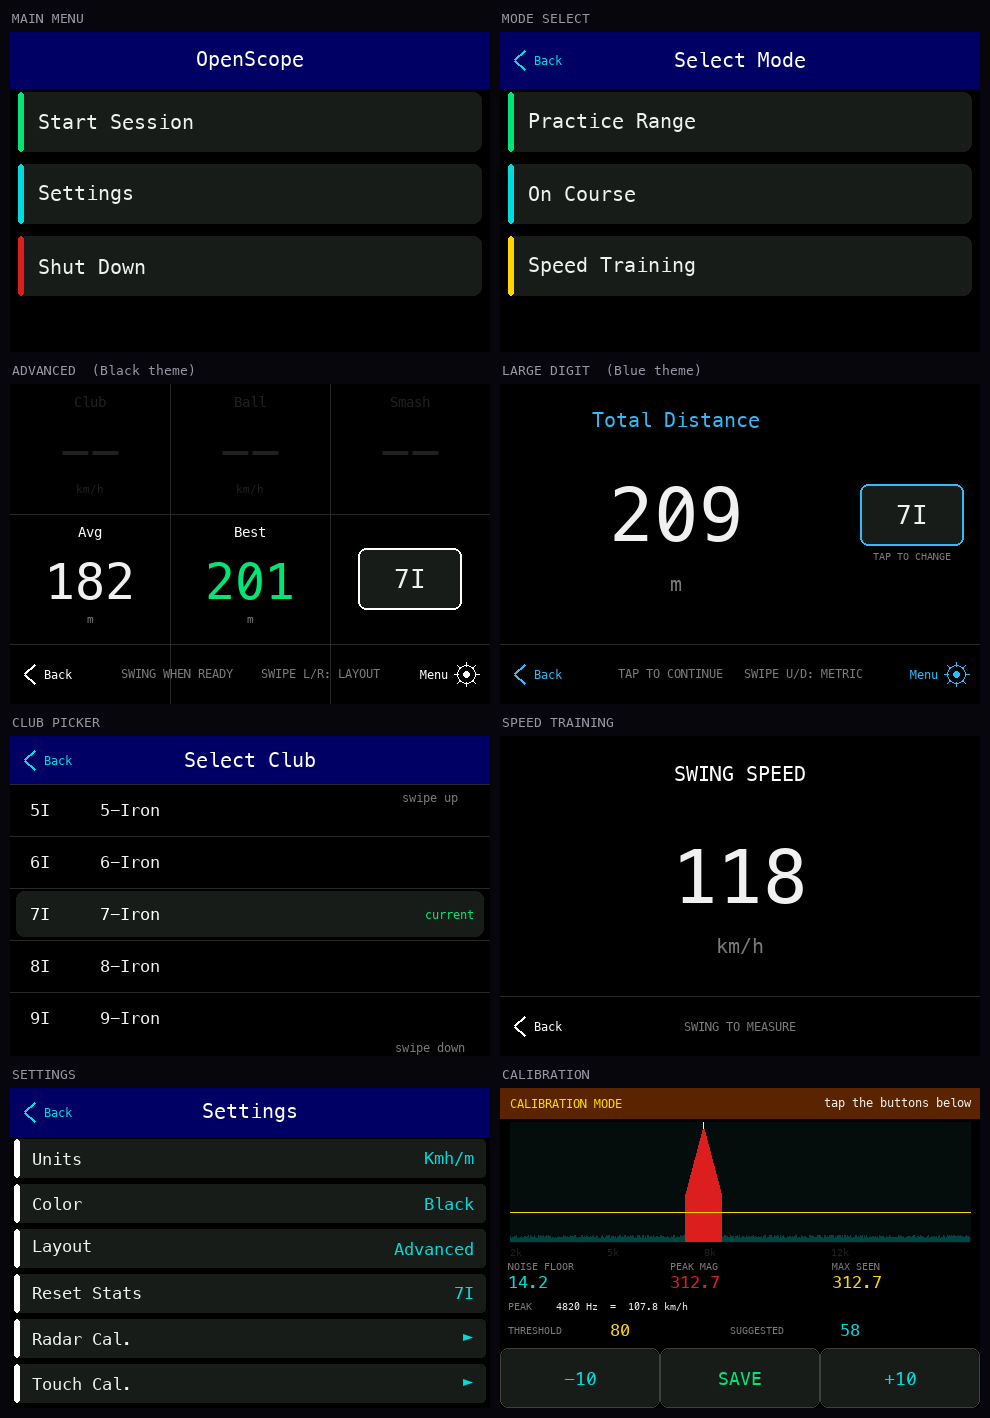
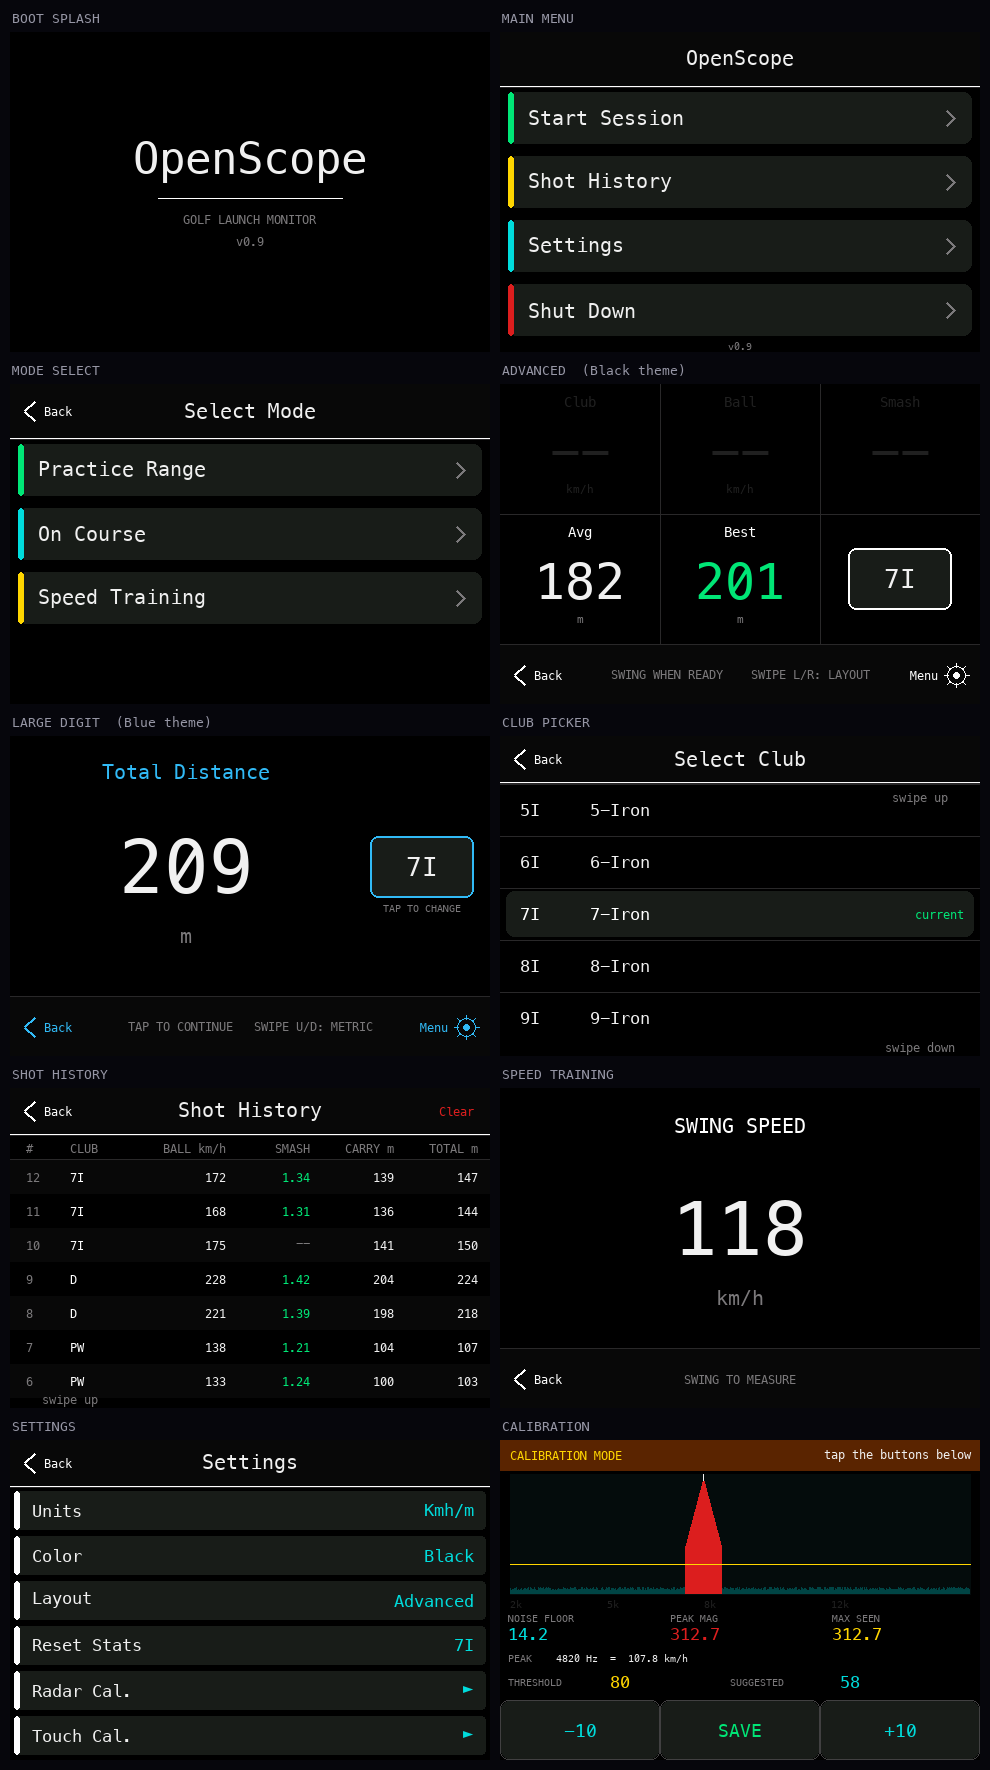
Regenerate README UI mockup for the v0.9 polish pass
Updates tools/generate_mockup.py to mirror the new display code: shared
dark-card headers with accent underline, four-row main menu with
chevrons and version footer, dock-styled bottom bars, plus new Boot
Splash and Shot History (zebra table) panels. README controls table and
mockup alt text updated to match.

diff --git a/tools/generate_mockup.py b/tools/generate_mockup.py
@@ -7,8 +7,9 @@ in sync with the firmware automatically. The UI is fully touch-driven (LM1
 style): the only physical control is Power.
 
 Screens rendered (mirrors display.cpp):
-    Main Menu · Mode Select · Advanced layout · Large-Digit layout ·
-    Club Picker · Speed Training · Settings · Calibration
+    Boot Splash · Main Menu · Mode Select · Advanced layout · Large-Digit
+    layout · Club Picker · Shot History · Speed Training · Settings ·
+    Calibration
 
 Usage (from repo root):
     python tools/generate_mockup.py
@@ -69,6 +70,14 @@ PICK_HDR_H = cfg.get("PICK_HDR_H", 48)
 PICK_ROW_H = cfg.get("PICK_ROW_H", 52)
 PICK_ROWS  = (SCR_H - PICK_HDR_H) // PICK_ROW_H
 
+HIST_HDR_H = cfg.get("HIST_HDR_H", 48)
+HIST_COL_H = cfg.get("HIST_COL_H", 24)
+HIST_ROW_H = cfg.get("HIST_ROW_H", 34)
+HIST_ROWS  = (SCR_H - HIST_HDR_H - HIST_COL_H) // HIST_ROW_H
+
+FW_VERSION = (re.search(r'#define\s+FW_VERSION\s+"([^"]+)"',
+                        open(ROOT / "src" / "config.h").read()) or [None, "v0.9"])[1]
+
 # ─── Colour helpers ───────────────────────────────────────────────────────────
 
 def rgb565(c):
@@ -93,6 +102,7 @@ DIM       = rgb565(cfg["COL_DIM"])
 CAL_HDR   = rgb565(cfg["COL_CAL_HDR"])
 BTN_BG    = rgb565(cfg.get("COL_BTN_BG",  0x18E3))
 BTN_BRD   = rgb565(cfg.get("COL_BTN_BRD", 0x4208))
+TILE_BG   = rgb565(cfg.get("COL_TILE_BG", 0x0841))
 
 # Theme label colours (Black theme = white labels, Blue theme = cyan labels)
 LABEL_BLACK = rgb565(cfg.get("COL_LABEL_BLACK", 0xFFFF))
@@ -198,7 +208,9 @@ def draw_club_pill(draw, x, y, w, h, abbr, label_col, tap_hint=False):
         tc(draw, "TAP TO CHANGE", cx, y + h + 4, F_SMALL, UNIT_C)
 
 def session_nav(draw, hint, label_col):
-    by = BAR_Y + BAR_H // 2
+    by = BAR_Y + BAR_H // 2 + 1
+    # Filled "dock" strip, matching draw_session_nav in display.cpp.
+    draw.rectangle([0, BAR_Y + 1, SCR_W, SCR_H], fill=TILE_BG)
     draw.line([(0, BAR_Y), (SCR_W, BAR_Y)], fill=DIV)
     chevron(draw, 14, by, label_col)
     ml(draw, "Back", 34, by, F_HDR, label_col)
@@ -206,19 +218,42 @@ def session_nav(draw, hint, label_col):
     gear(draw, SCR_W - 24, by, label_col)
     mr(draw, "Menu", SCR_W - 42, by, F_HDR, label_col)
 
-def screen_header(draw, title, label_col, back=True):
-    draw.rectangle([0, 0, SCR_W, MENU_HDR_H], fill=NAVY)
+def screen_header(draw, title, label_col, back=True, h=None,
+                  right=None, right_col=CYAN):
+    """Dark card strip with a themed accent underline (display.cpp style)."""
+    if h is None: h = MENU_HDR_H
+    draw.rectangle([0, 0, SCR_W, h - 2], fill=TILE_BG)
+    draw.line([(0, h - 2), (SCR_W, h - 2)], fill=label_col)
+    draw.line([(0, h - 1), (SCR_W, h - 1)], fill=DIV)
+    cy = (h - 2) // 2
     if back:
-        chevron(draw, 14, MENU_HDR_H // 2, CYAN)
-        ml(draw, "Back", 34, MENU_HDR_H // 2, F_HDR, CYAN)
-    mc(draw, title, SCR_W // 2, MENU_HDR_H // 2, F_TITLE, label_col)
+        chevron(draw, 14, cy, label_col)
+        ml(draw, "Back", 34, cy, F_HDR, label_col)
+    if right:
+        mr(draw, right, SCR_W - 16, cy, F_HDR, right_col)
+    mc(draw, title, SCR_W // 2, cy, F_TITLE, WHITE)
 
 def menu_row(draw, i, label, accent):
-    y = MENU_HDR_H + i * MENU_ROW_H
-    h = MENU_ROW_H - MENU_GAP
+    y  = MENU_HDR_H + i * MENU_ROW_H
+    h  = MENU_ROW_H - MENU_GAP
+    cy = y + h // 2 + 2
     rounded_rect(draw, 8, y + 4, SCR_W - 16, h - 4, BTN_R, fill=BTN_BG)
     rounded_rect(draw, 8, y + 4, 6, h - 4, BTN_R, fill=accent)
-    ml(draw, label, 28, y + h // 2 + 2, F_TITLE, WHITE)
+    ml(draw, label, 28, cy, F_TITLE, WHITE)
+    # "›" affordance chevron on the right.
+    draw.line([(SCR_W-34, cy-8), (SCR_W-26, cy), (SCR_W-34, cy+8)],
+              fill=UNIT_C, width=2)
+
+# ─── Screen: Boot Splash ──────────────────────────────────────────────────────
+
+def screen_splash(label_col=LABEL_BLACK):
+    img = Image.new("RGB", (SCR_W, SCR_H), BG); d = ImageDraw.Draw(img)
+    mc(d, "OpenScope", SCR_W // 2, SCR_H // 2 - 30, load_font(44), WHITE)
+    d.line([(SCR_W//2 - 92, SCR_H//2 + 6), (SCR_W//2 + 92, SCR_H//2 + 6)],
+           fill=label_col)
+    tc(d, "GOLF LAUNCH MONITOR", SCR_W // 2, SCR_H // 2 + 20, F_HDR, UNIT_C)
+    tc(d, FW_VERSION, SCR_W // 2, SCR_H // 2 + 42, F_HDR, UNIT_C)
+    return img
 
 # ─── Screen: Main Menu ────────────────────────────────────────────────────────
 
@@ -226,8 +261,10 @@ def screen_menu(label_col=LABEL_BLACK):
     img = Image.new("RGB", (SCR_W, SCR_H), BG); d = ImageDraw.Draw(img)
     screen_header(d, "OpenScope", label_col, back=False)
     menu_row(d, 0, "Start Session", GREEN)
-    menu_row(d, 1, "Settings",      CYAN)
-    menu_row(d, 2, "Shut Down",     RED)
+    menu_row(d, 1, "Shot History",  YELLOW)
+    menu_row(d, 2, "Settings",      CYAN)
+    menu_row(d, 3, "Shut Down",     RED)
+    tc(d, FW_VERSION, SCR_W // 2, SCR_H - 12, F_SMALL, UNIT_C)
     return img
 
 # ─── Screen: Mode Select ──────────────────────────────────────────────────────
@@ -273,10 +310,7 @@ def screen_picker(label_col=LABEL_BLACK):
     img = Image.new("RGB", (SCR_W, SCR_H), BG); d = ImageDraw.Draw(img)
     active = 7                                   # 7-Iron is current
     scroll = max(0, min(active - PICK_ROWS // 2, len(CLUBS) - PICK_ROWS))
-    d.rectangle([0, 0, SCR_W, PICK_HDR_H], fill=NAVY)
-    chevron(d, 14, PICK_HDR_H // 2, CYAN)
-    ml(d, "Back", 34, PICK_HDR_H // 2, F_HDR, CYAN)
-    mc(d, "Select Club", SCR_W // 2, PICK_HDR_H // 2, F_TITLE, label_col)
+    screen_header(d, "Select Club", label_col, back=True, h=PICK_HDR_H)
     for r in range(PICK_ROWS):
         idx = scroll + r
         if idx >= len(CLUBS): break
@@ -304,21 +338,62 @@ def screen_speed(label_col=LABEL_BLACK):
     tc(d, "SWING SPEED", SCR_W // 2, 26, F_TITLE, label_col)
     mc(d, "118", SCR_W // 2, 140, F_HUGE, WHITE)
     tc(d, "km/h", SCR_W // 2, 198, F_TITLE, UNIT_C)
-    by = BAR_Y + BAR_H // 2
+    by = BAR_Y + BAR_H // 2 + 1
+    d.rectangle([0, BAR_Y + 1, SCR_W, SCR_H], fill=TILE_BG)
     d.line([(0, BAR_Y), (SCR_W, BAR_Y)], fill=DIV)
     chevron(d, 14, by, label_col)
     ml(d, "Back", 34, by, F_HDR, label_col)
     mc(d, "SWING TO MEASURE", SCR_W // 2, by, F_HDR, UNIT_C)
     return img
 
+# ─── Screen: Shot History ─────────────────────────────────────────────────────
+
+def screen_history(label_col=LABEL_BLACK):
+    img = Image.new("RGB", (SCR_W, SCR_H), BG); d = ImageDraw.Draw(img)
+    screen_header(d, "Shot History", label_col, back=True, h=HIST_HDR_H,
+                  right="Clear", right_col=RED)
+
+    # Column labels (positions mirror ui_history_draw in display.cpp).
+    C_BALL, C_SMASH, C_CARRY, C_TOTAL = 216, 300, 384, SCR_W - 12
+    cy = HIST_HDR_H + HIST_COL_H // 2
+    ml(d, "#",    16, cy, F_HDR, UNIT_C)
+    ml(d, "CLUB", 60, cy, F_HDR, UNIT_C)
+    mr(d, "BALL km/h",  C_BALL,  cy, F_HDR, UNIT_C)
+    mr(d, "SMASH",      C_SMASH, cy, F_HDR, UNIT_C)
+    mr(d, "CARRY m",    C_CARRY, cy, F_HDR, UNIT_C)
+    mr(d, "TOTAL m",    C_TOTAL, cy, F_HDR, UNIT_C)
+    d.line([(0, HIST_HDR_H + HIST_COL_H - 1), (SCR_W, HIST_HDR_H + HIST_COL_H - 1)],
+           fill=DIV)
+
+    # Sample shots, newest first (zebra striping like the firmware).
+    shots = [   # num, club, ball, smash, carry, total
+        (12, "7I", "172", "1.34", "139", "147"),
+        (11, "7I", "168", "1.31", "136", "144"),
+        (10, "7I", "175", "--",   "141", "150"),
+        ( 9, "D",  "228", "1.42", "204", "224"),
+        ( 8, "D",  "221", "1.39", "198", "218"),
+        ( 7, "PW", "138", "1.21", "104", "107"),
+        ( 6, "PW", "133", "1.24", "100", "103"),
+    ]
+    for r, (num, club, ball, smash, carry, total) in enumerate(shots[:HIST_ROWS]):
+        y  = HIST_HDR_H + HIST_COL_H + r * HIST_ROW_H
+        ry = y + HIST_ROW_H // 2
+        if r % 2 == 0:
+            d.rectangle([0, y, SCR_W, y + HIST_ROW_H - 1], fill=TILE_BG)
+        ml(d, str(num), 16, ry, F_HDR, UNIT_C)
+        ml(d, club,     60, ry, F_HDR, label_col)
+        mr(d, ball,  C_BALL,  ry, F_HDR, WHITE)
+        mr(d, smash, C_SMASH, ry, F_HDR, GREEN if smash != "--" else UNIT_C)
+        mr(d, carry, C_CARRY, ry, F_HDR, WHITE)
+        mr(d, total, C_TOTAL, ry, F_HDR, WHITE)
+    tc(d, "swipe up", 60, SCR_H - 16, F_HDR, UNIT_C)
+    return img
+
 # ─── Screen: Settings ─────────────────────────────────────────────────────────
 
 def screen_settings(label_col=LABEL_BLACK):
     img = Image.new("RGB", (SCR_W, SCR_H), BG); d = ImageDraw.Draw(img)
-    d.rectangle([0, 0, SCR_W, SET_HDR_H], fill=NAVY)
-    chevron(d, 14, SET_HDR_H // 2, CYAN)
-    ml(d, "Back", 34, SET_HDR_H // 2, F_HDR, CYAN)
-    mc(d, "Settings", SCR_W // 2, SET_HDR_H // 2, F_TITLE, label_col)
+    screen_header(d, "Settings", label_col, back=True, h=SET_HDR_H)
 
     labels = ["Units", "Color", "Layout", "Reset Stats", "Radar Cal.", "Touch Cal."]
     values = ["Kmh/m", "Black", "Advanced", "7I", "►", "►"]
@@ -390,11 +465,13 @@ GAP = 10
 
 def compose():
     panels = [
+        (screen_splash(),       "BOOT SPLASH"),
         (screen_menu(),         "MAIN MENU"),
         (screen_mode(),         "MODE SELECT"),
         (screen_advanced(),     "ADVANCED  (Black theme)"),
         (screen_large(),        "LARGE DIGIT  (Blue theme)"),
         (screen_picker(),       "CLUB PICKER"),
+        (screen_history(),      "SHOT HISTORY"),
         (screen_speed(),        "SPEED TRAINING"),
         (screen_settings(),     "SETTINGS"),
         (screen_calibration(),  "CALIBRATION"),

diff --git a/README.md b/README.md
@@ -129,8 +129,9 @@ physical control is Power (hold 2 s anywhere → sleep / shut down).
 
 | Screen | Touch |
 |--------|-------|
-| Main menu | Tap **Start Session**, **Settings**, or **Shut Down** |
+| Main menu | Tap **Start Session**, **Shot History**, **Settings**, or **Shut Down** |
 | Mode select | Tap **Practice Range**, **On Course**, or **Speed Training** · **‹ Back** |
+| Shot history | **Swipe ↑/↓** scroll the last 50 shots · **Clear** wipes the log · **‹ Back** |
 | Session | Tap the **club pill** → picker · **swipe ←/→** switch layout · tap a metric (Advanced) → Large Digit · **⚙ Menu** → Settings · **‹ Back** → mode select |
 | Large Digit | **Swipe ↑/↓** cycle metric (club → ball → smash → carry → total) |
 | Result | Tap **anywhere** → dismiss |
@@ -280,7 +281,7 @@ angle correction. See [the source](src/radar.cpp) for the signal chain and
 
 ## UI Mockup
 
-![OpenScope UI — eight screens: menu, mode select, Advanced & Large Digit layouts, club picker, speed training, settings, calibration](docs/openscope-ui.png?v=4)
+![OpenScope UI — ten screens: boot splash, menu, mode select, Advanced & Large Digit layouts, club picker, shot history, speed training, settings, calibration](docs/openscope-ui.png?v=5)
 
 ## License
 